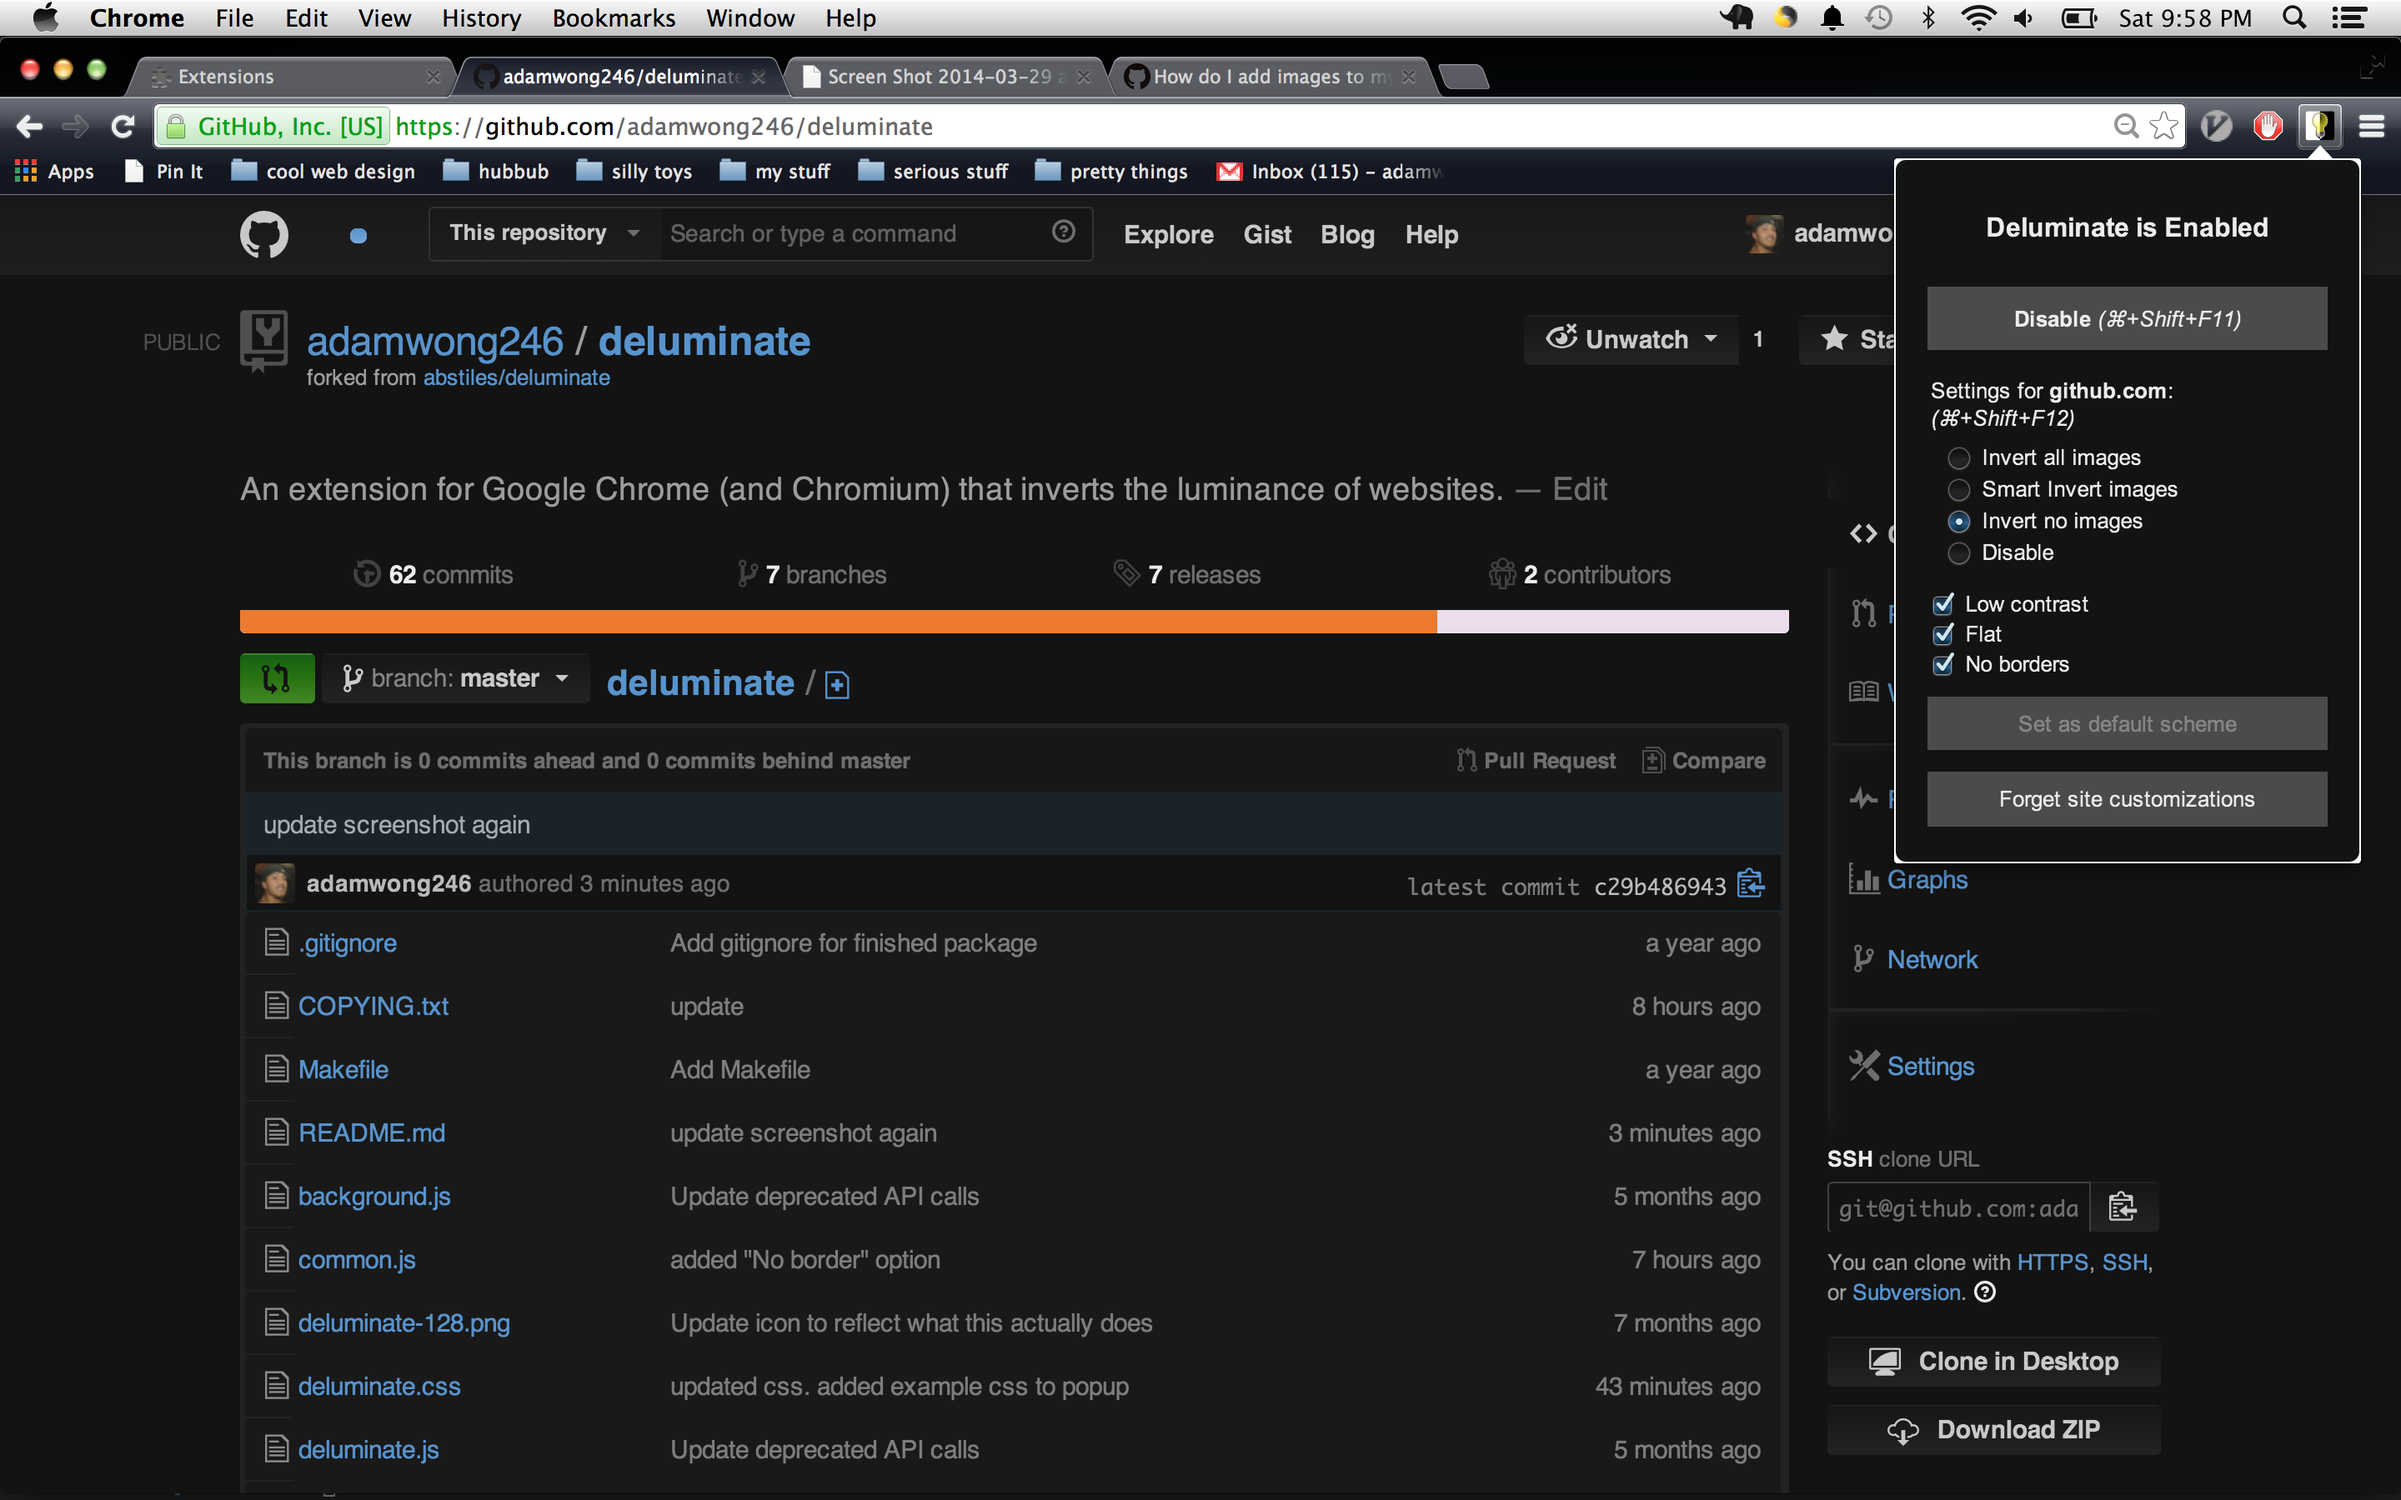
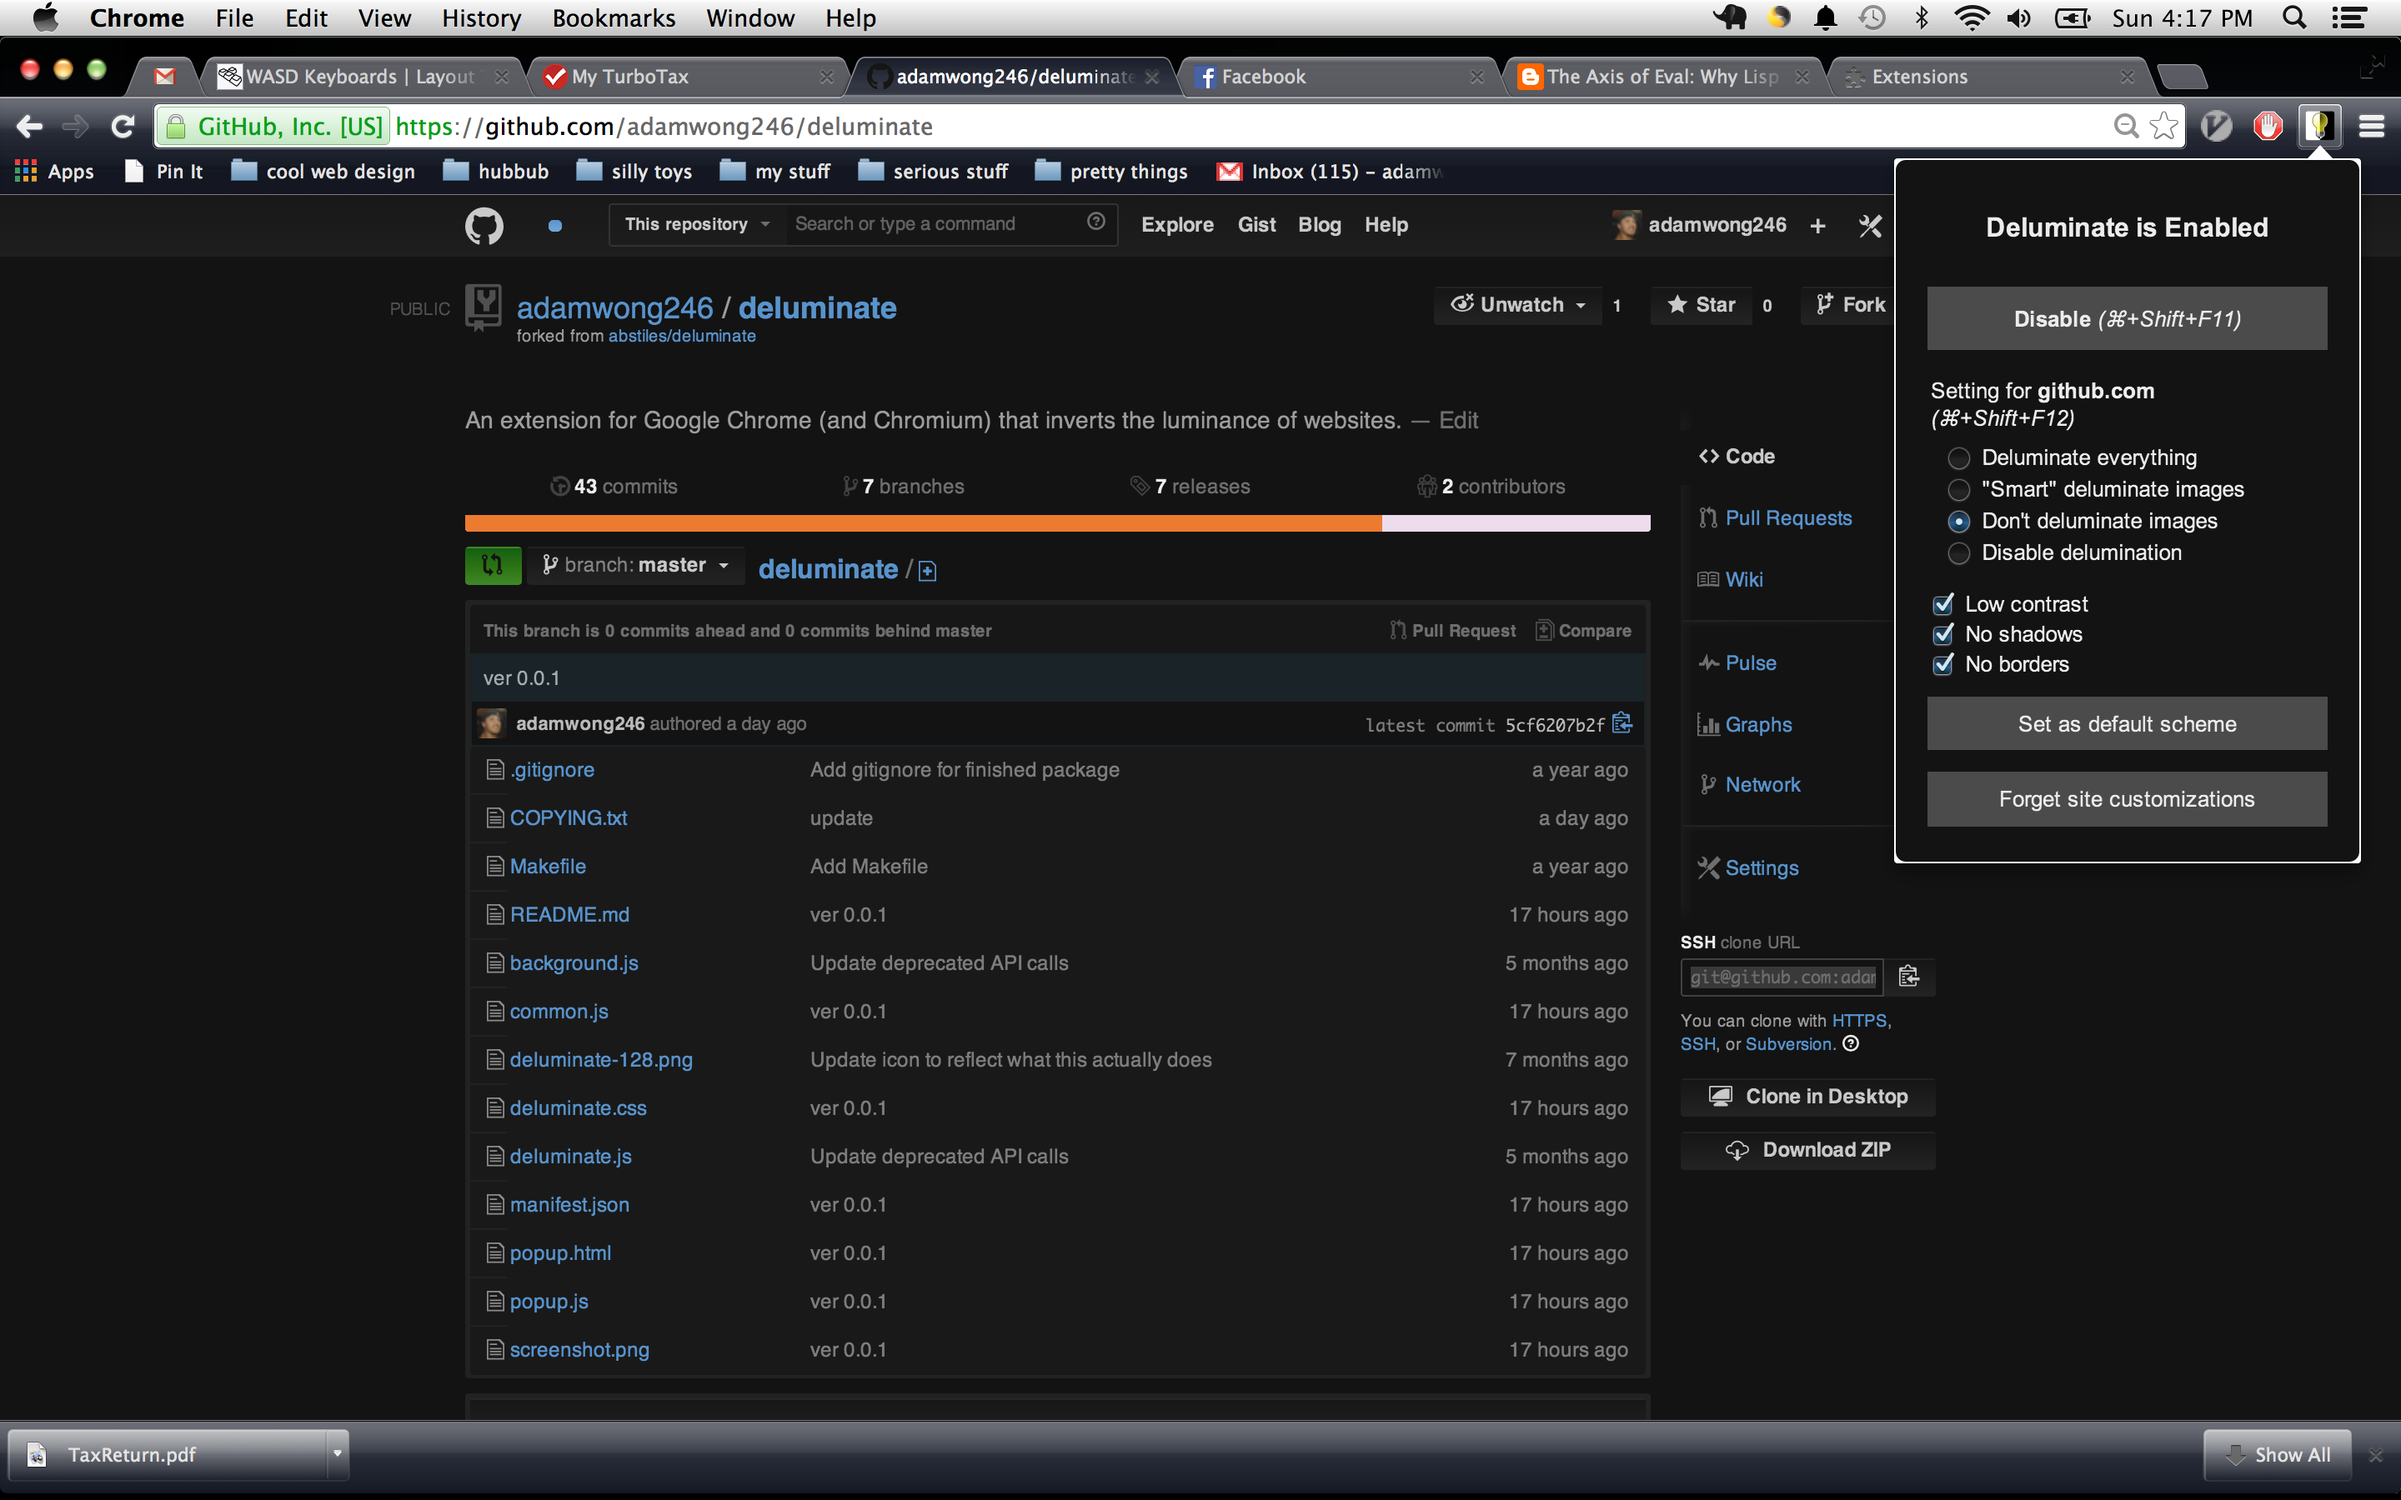
update wording and screenshot

diff --git a/popup.js b/popup.js
@@ -123,12 +123,12 @@ function init() {
       var tab = window.tabs[i];
       if (tab.active) {
         if (isDisallowedUrl(tab.url)) {
-          $('scheme_title').innerText = 'Default color scheme:';
+          $('scheme_title').innerText = 'Default settings';
           $('make_default').style.display = 'none';
         } else {
           site = siteFromUrl(tab.url);
-          $('scheme_title').innerHTML = 'Settings for <b>' + site +
-              '</b>:<br><span class="kb">(' + key2 + ')</span>';
+          $('scheme_title').innerHTML = 'Setting for <b>' + site +
+              '</b><br><span class="kb">(' + key2 + ')</span>';
           $('make_default').style.display = 'block';
         }
         update();

diff --git a/popup.html b/popup.html
@@ -85,7 +85,7 @@
 
         <label>
           <input type="radio" name="scheme" value="normal">
-          Disable
+          Disable delumination
         </label>
 
       </fieldset>
